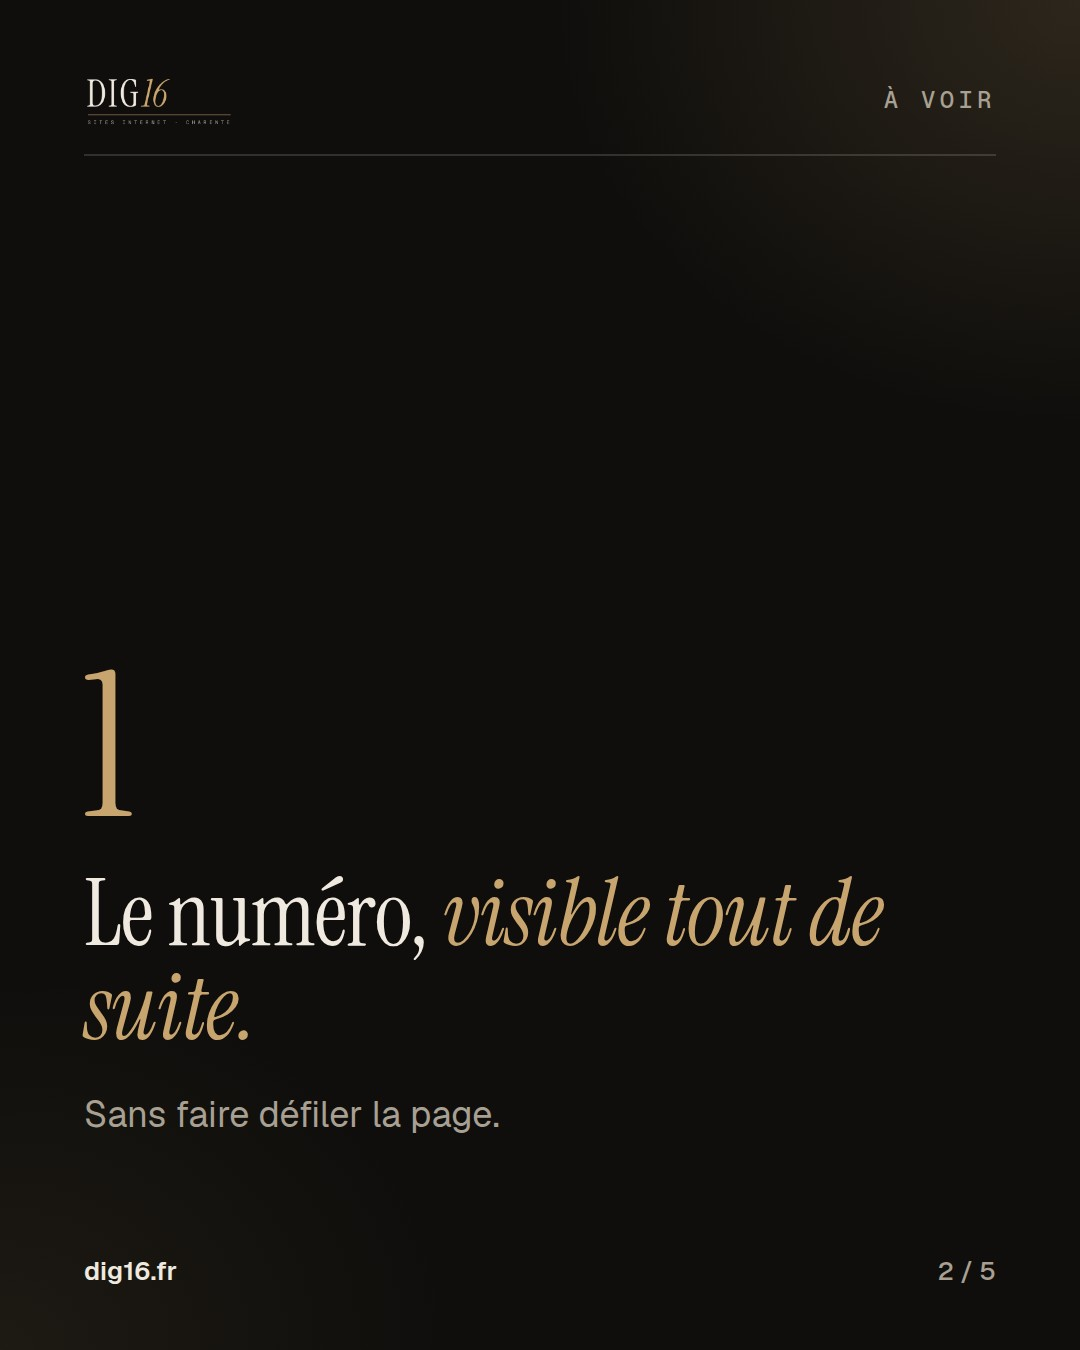
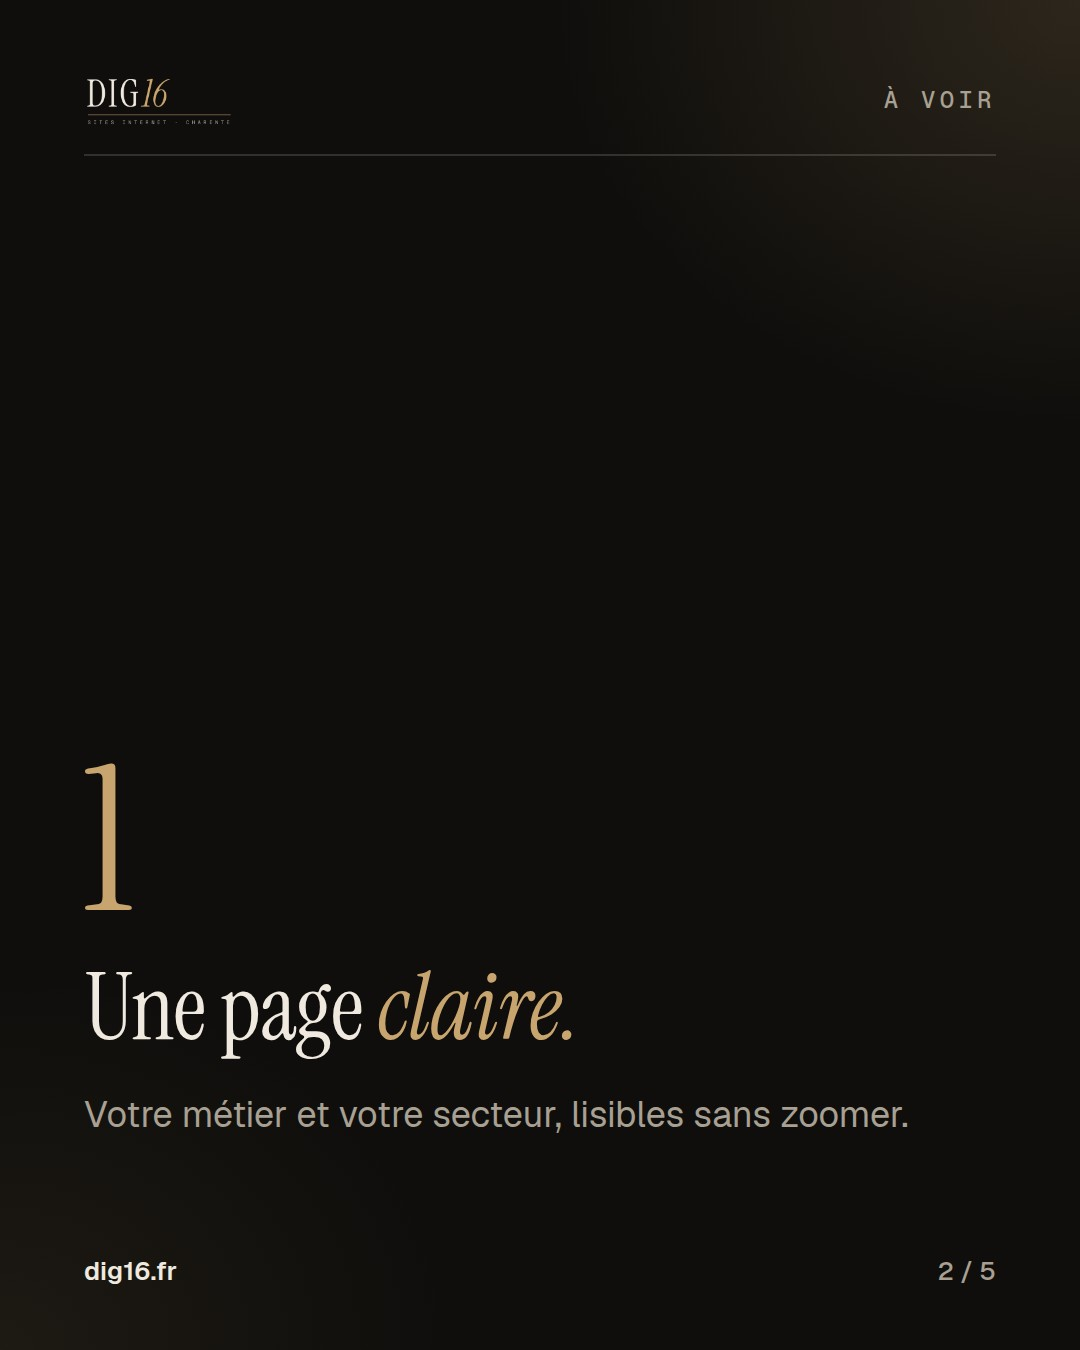
Publication avant/après : ne promettre que ce que la capture montre
Claude-Session: https://claude.ai/code/session_01HXUPij67xudweYwrEb9uHq

Changed region(s): [[0.0611, 0.4978, 0.825, 0.7778], [0.0611, 0.8089, 0.825, 0.84]]

diff --git a/ai-business-lab/chasse-demande/outils/marque/publications_v2.py b/ai-business-lab/chasse-demande/outils/marque/publications_v2.py
@@ -135,12 +135,12 @@ SERIE = [
      "titre_tiktok": "Avant, après : la même page d'accueil",
      "images": [
          ("avantapres", "Avant, après : *la même page d'accueil.*"),
-         ("point", "1", "Le numéro, *visible tout de suite.*", "Sans faire défiler la page."),
+         ("point", "1", "Une page *claire.*", "Votre métier et votre secteur, lisibles sans zoomer."),
          ("point", "2", "Vos réalisations, *en grandes photos.*", "C'est ce que vos clients viennent voir."),
-         ("point", "3", "Un bouton pour *demander un devis.*", "Simple, en haut de la page."),
+         ("point", "3", "Un bouton pour *demander un devis.*", "En haut de la page, toujours à portée de pouce."),
          APPEL],
      "legende": "Avant / après : une page d'accueil d'artisan refaite par DIG16 (exemple fictif) ✨\n"
-                "Plus claire, les réalisations en grand, et le numéro bien en vue.\n"
+                "Plus claire, les réalisations en grand, et le devis à portée de pouce.\n"
                 "Vous voulez voir la même chose pour votre entreprise ? C'est gratuit pour voir.",
      "alt": "Avant, après : une page d'accueil d'artisan démodée, puis la même refaite par DIG16 (exemple fictif)."},
     {"id": "p08", "date": "2026-11-04T18:30:00", "theme": "clair", "etiquette": "Le conseil", "metricool": 392400832,
